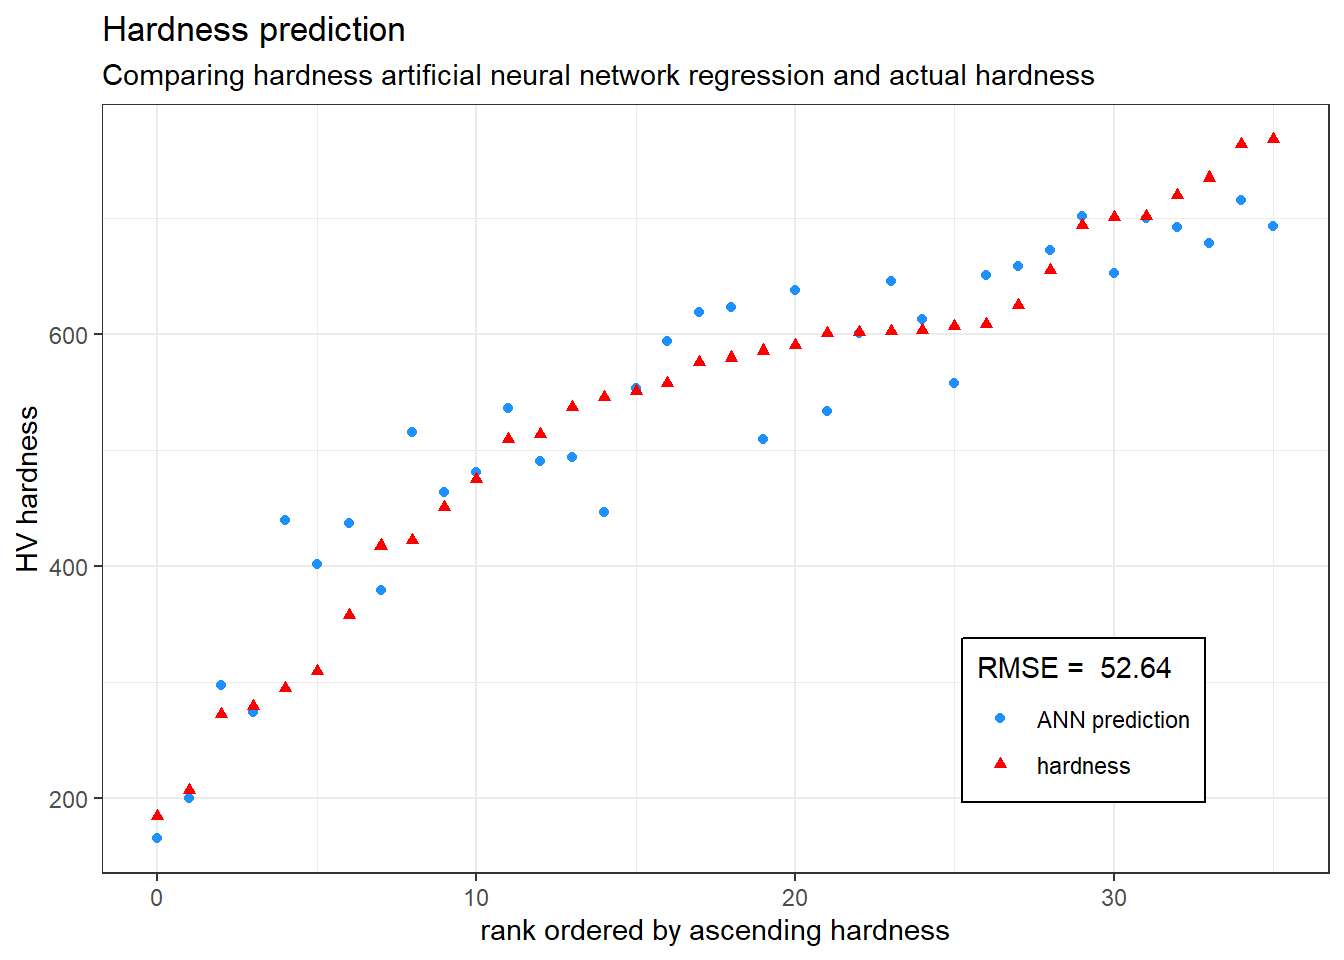
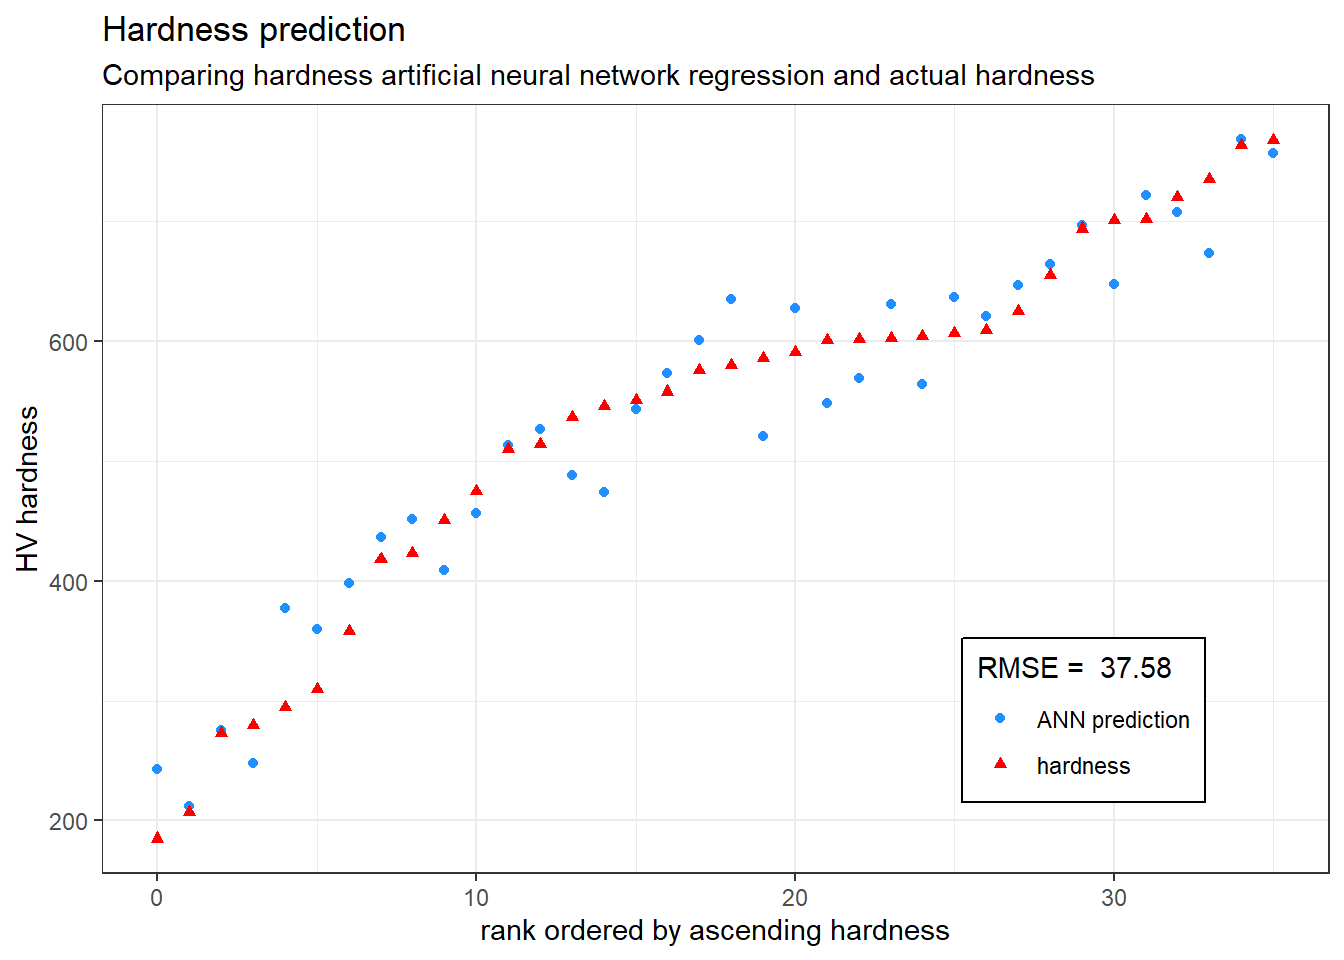
automated commit

diff --git a/content/post/2020-07-03-compositional-analysis/index.html b/content/post/2020-07-03-compositional-analysis/index.html
@@ -206,11 +206,11 @@ scale02 &lt;- function(y){
 
 
 
-hard_ann &lt;- cbind(hard_$hardness,as.tibble(hard.clr)) %&gt;% 
+hard_ann &lt;- cbind(hard_$hardness,as_tibble(hard.clr)) %&gt;% 
   mutate_all(scale01) %&gt;% rename(&quot;hardness&quot; = &quot;hard_$hardness&quot;)
 
 
-set.seed(111)
+set.seed(1)
 hard_ann_train &lt;- sample_frac(tbl = hard_ann, replace = FALSE, size = 0.80)
 hard_ann_test &lt;- anti_join(hard_ann, hard_ann_train)</code></pre>
 <pre class="r"><code>hard_ann_model1 &lt;- neuralnet(hardness ~ Al + Co + 
@@ -231,9 +231,9 @@ hard_ann_sse2 &lt;- sum((hard_ann_test_output2 - hard_ann_test[, 1])^2)/2
 
 
 hard_ann_sse1</code></pre>
-<pre><code>## [1] 0.04433977</code></pre>
+<pre><code>## [1] 0.01869546</code></pre>
 <pre class="r"><code>hard_ann_sse2 # model 2 is more accurate</code></pre>
-<pre><code>## [1] 0.02979382</code></pre>
+<pre><code>## [1] 0.01810635</code></pre>
 <pre class="r"><code>dat &lt;- cbind(p = hard_ann_test_output2, hard_ann_test) %&gt;%
   arrange(hardness) %&gt;%
   mutate(row = row_number()) %&gt;% 

diff --git a/public/2020/07/03/compositional-analysis/index.html b/public/2020/07/03/compositional-analysis/index.html
@@ -272,11 +272,11 @@ scale02 &lt;- function(y){
 
 
 
-hard_ann &lt;- cbind(hard_$hardness,as.tibble(hard.clr)) %&gt;% 
+hard_ann &lt;- cbind(hard_$hardness,as_tibble(hard.clr)) %&gt;% 
   mutate_all(scale01) %&gt;% rename(&quot;hardness&quot; = &quot;hard_$hardness&quot;)
 
 
-set.seed(111)
+set.seed(1)
 hard_ann_train &lt;- sample_frac(tbl = hard_ann, replace = FALSE, size = 0.80)
 hard_ann_test &lt;- anti_join(hard_ann, hard_ann_train)</code></pre>
 <pre class="r"><code>hard_ann_model1 &lt;- neuralnet(hardness ~ Al + Co + 
@@ -297,9 +297,9 @@ hard_ann_sse2 &lt;- sum((hard_ann_test_output2 - hard_ann_test[, 1])^2)/2
 
 
 hard_ann_sse1</code></pre>
-<pre><code>## [1] 0.04433977</code></pre>
+<pre><code>## [1] 0.01869546</code></pre>
 <pre class="r"><code>hard_ann_sse2 # model 2 is more accurate</code></pre>
-<pre><code>## [1] 0.02979382</code></pre>
+<pre><code>## [1] 0.01810635</code></pre>
 <pre class="r"><code>dat &lt;- cbind(p = hard_ann_test_output2, hard_ann_test) %&gt;%
   arrange(hardness) %&gt;%
   mutate(row = row_number()) %&gt;% 
